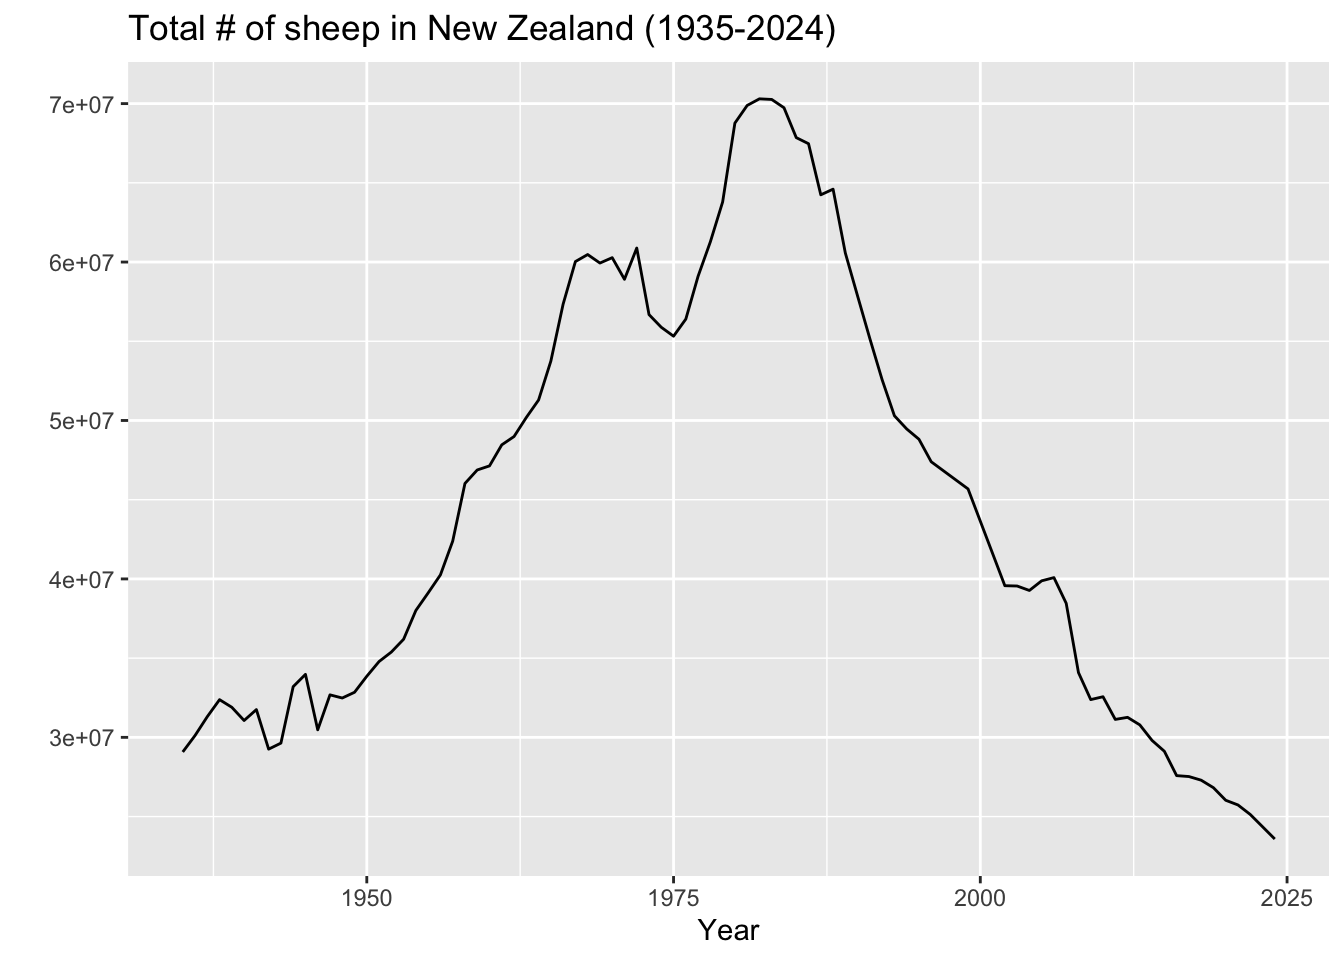
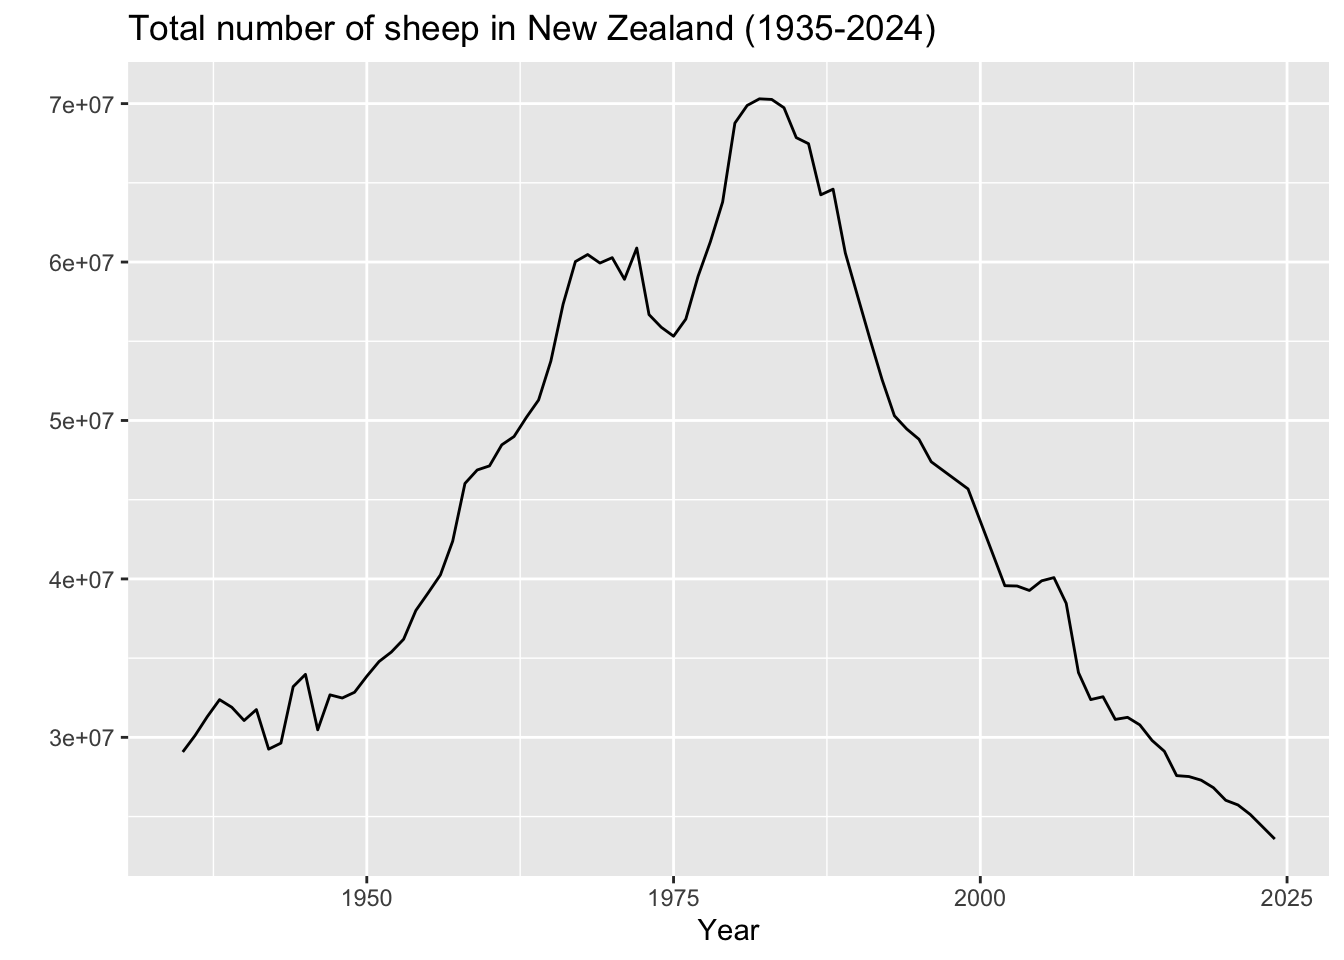
"Website almost there I think..."

Changed region(s): [[0.1562, 0.0, 0.6875, 0.0625]]

diff --git a/docs/dataviz.html b/docs/dataviz.html
@@ -8,7 +8,7 @@
 
 <meta name="author" content="Isaiah Moliga-Puletasi">
 
-<title>Agricultural Production Statistics in New Zealand – Isaiah Moliga-Puletasi</title>
+<title>Agricultural Production Statistics in New Zealand: Total number of sheep in New Zealand (1935-2024) – Isaiah Moliga-Puletasi</title>
 <style>
 /* Default styles provided by pandoc.
 ** See https://pandoc.org/MANUAL.html#variables-for-html for config info.
@@ -142,11 +142,11 @@ pre > code.sourceCode > span > a:first-child::before { text-decoration: underlin
     <ul class="dropdown-menu" aria-labelledby="nav-menu-data-visualization">    
         <li>
     <a class="dropdown-item" href="./dataviz.html">
- <span class="dropdown-text">Sheep Population Trends in NZ</span></a>
+ <span class="dropdown-text">Total number of sheep in New Zealand (1935-2024)</span></a>
   </li>  
         <li>
     <a class="dropdown-item" href="./dataviz1.html">
- <span class="dropdown-text">Public Art Across NY’s MTA</span></a>
+ <span class="dropdown-text">Number of art pieces across NY transit (2025)</span></a>
   </li>  
     </ul>
   </li>
@@ -169,7 +169,7 @@ pre > code.sourceCode > span > a:first-child::before { text-decoration: underlin
 
 <header id="title-block-header" class="quarto-title-block default">
 <div class="quarto-title">
-<h1 class="title">Agricultural Production Statistics in New Zealand</h1>
+<h1 class="title">Agricultural Production Statistics in New Zealand: Total number of sheep in New Zealand (1935-2024)</h1>
 <p class="subtitle lead">due Wednesday, September 30, 2026</p>
 </div>
 
@@ -209,7 +209,7 @@ pre > code.sourceCode > span > a:first-child::before { text-decoration: underlin
 <span id="cb2-8"><a href="#cb2-8" aria-hidden="true" tabindex="-1"></a>    <span class="fu">ggplot</span>(<span class="fu">aes</span>(<span class="at">x =</span> year_ended_june, <span class="at">y =</span> value)) <span class="sc">+</span></span>
 <span id="cb2-9"><a href="#cb2-9" aria-hidden="true" tabindex="-1"></a>    <span class="fu">geom_line</span>() <span class="sc">+</span> </span>
 <span id="cb2-10"><a href="#cb2-10" aria-hidden="true" tabindex="-1"></a>    <span class="fu">labs</span>(</span>
-<span id="cb2-11"><a href="#cb2-11" aria-hidden="true" tabindex="-1"></a>        <span class="at">title =</span> <span class="st">"Total # of sheep in New Zealand (1935-2024)"</span>,</span>
+<span id="cb2-11"><a href="#cb2-11" aria-hidden="true" tabindex="-1"></a>        <span class="at">title =</span> <span class="st">"Total number of sheep in New Zealand (1935-2024)"</span>,</span>
 <span id="cb2-12"><a href="#cb2-12" aria-hidden="true" tabindex="-1"></a>        <span class="at">x =</span> <span class="st">"Year"</span>,</span>
 <span id="cb2-13"><a href="#cb2-13" aria-hidden="true" tabindex="-1"></a>        <span class="at">y =</span> <span class="st">""</span></span>
 <span id="cb2-14"><a href="#cb2-14" aria-hidden="true" tabindex="-1"></a>    )</span></code></pre></div><button title="Copy to Clipboard" class="code-copy-button"><i class="bi"></i></button></div>
